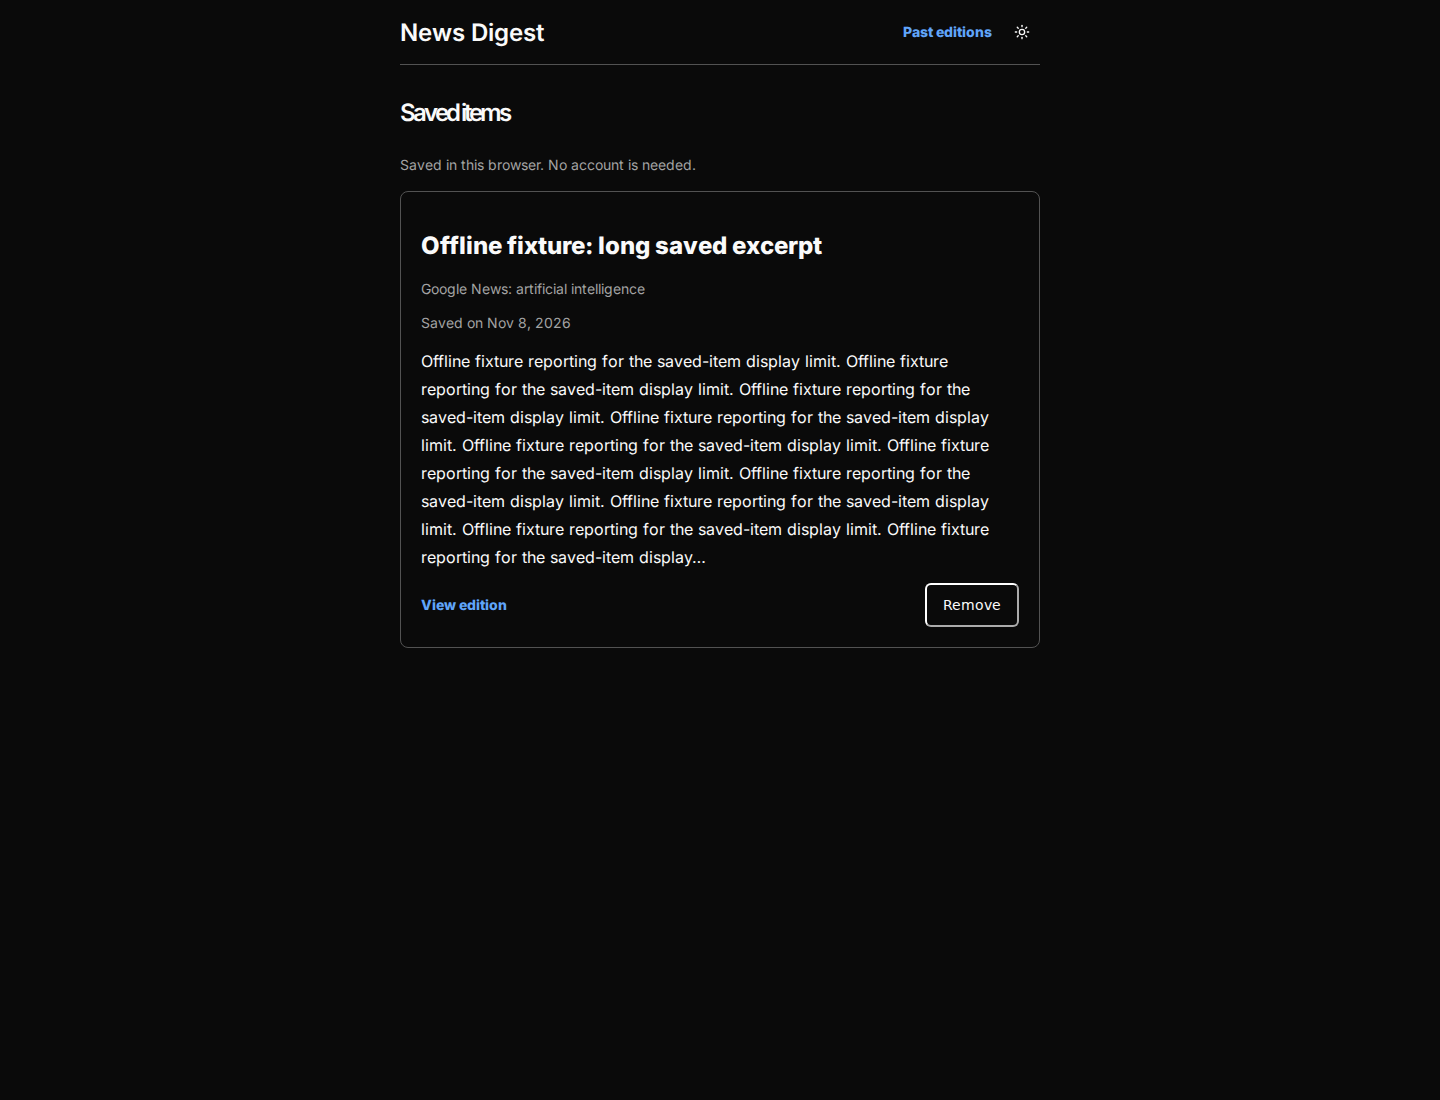
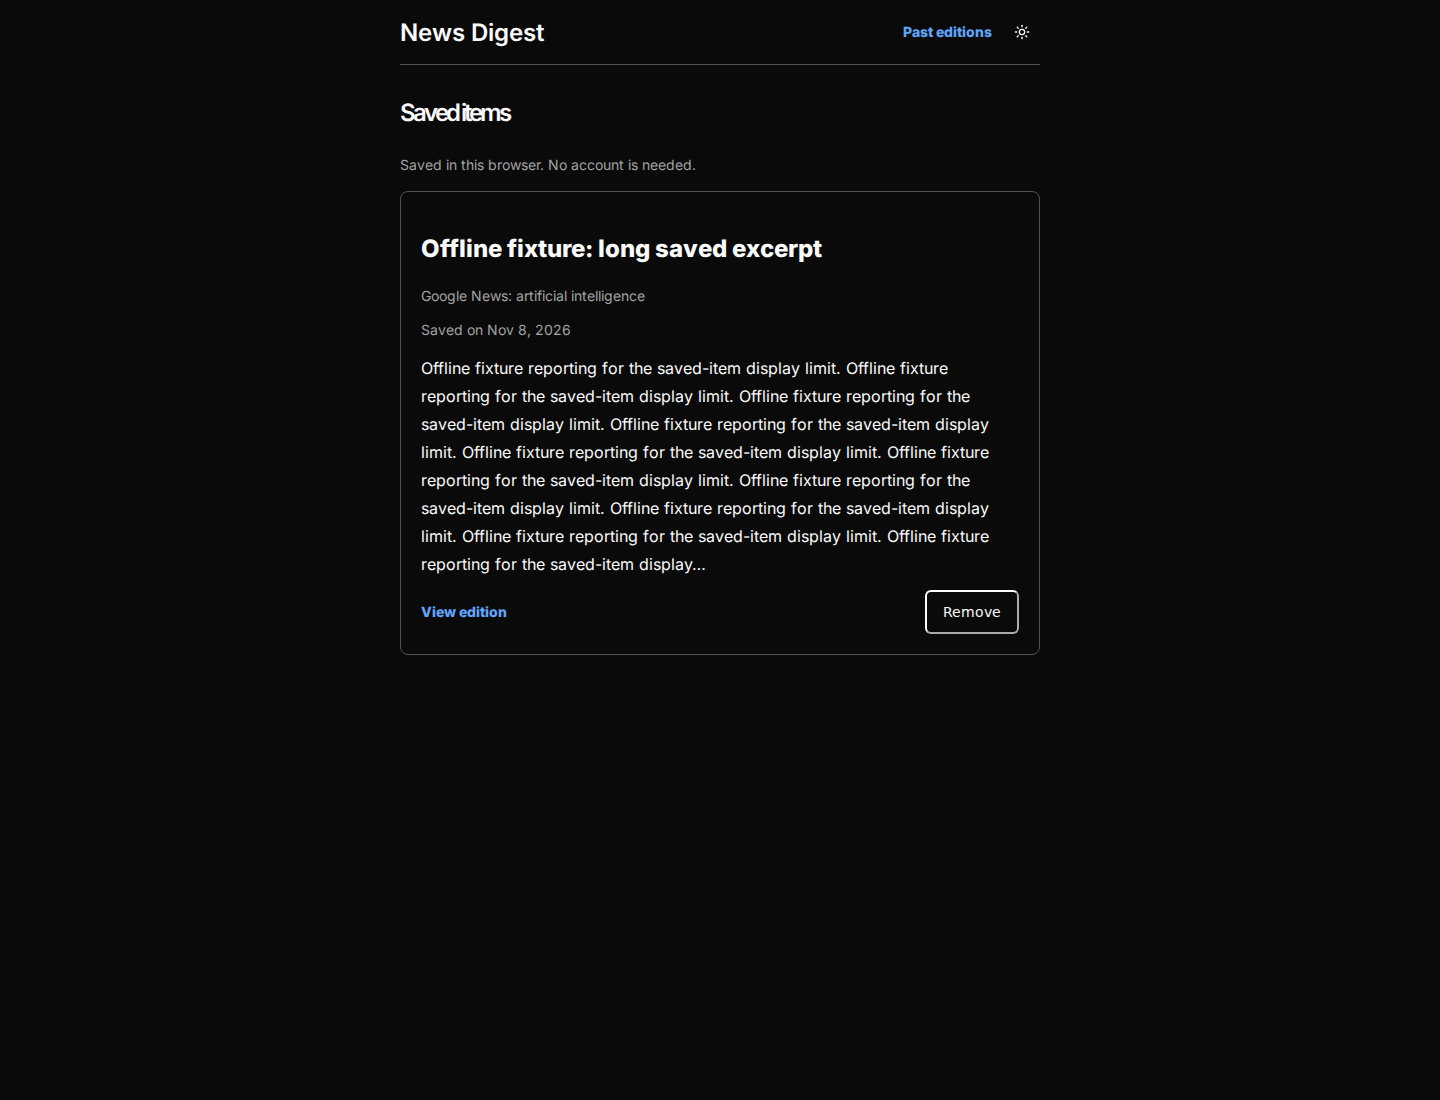
Make saved headlines easier to open and focus

Changed region(s): [[0.2812, 0.2164, 0.6875, 0.5873], [0.6562, 0.5255, 0.7188, 0.5873]]

diff --git a/scripts/smoke-reader-saved-excerpt.ts b/scripts/smoke-reader-saved-excerpt.ts
@@ -94,6 +94,33 @@ async function smoke() {
         await expect(page.locator('p.whitespace-pre-line')).toHaveText(
           story.summary,
         );
+        const headline = page.getByRole('link', {
+          name: story.title,
+          exact: true,
+        });
+        assert.equal(
+          await headline.evaluate((node) => getComputedStyle(node).display),
+          'flex',
+        );
+        const bounds = await headline.boundingBox();
+        assert.ok(bounds && bounds.width >= 44 && bounds.height >= 44);
+        assert.equal(await headline.getAttribute('href'), story.url);
+        await headline.focus();
+        await page.keyboard.press('Tab');
+        await page.keyboard.press('Shift+Tab');
+        assert.ok(
+          await headline.evaluate((node) => document.activeElement === node),
+        );
+        assert.equal(
+          await headline.evaluate(
+            (node) => getComputedStyle(node).outlineStyle,
+          ),
+          'solid',
+        );
+        await page.screenshot({
+          path: `docs/screenshots/ui/saved-headline-${device}-${theme}.png`,
+          fullPage: true,
+        });
         assert.deepEqual(errors, []);
         console.log(
           `${device}/${theme}: offline fixture excerpt shortened visibly and preserved on reload`,

diff --git a/apps/web/src/ReaderSaved.tsx b/apps/web/src/ReaderSaved.tsx
@@ -77,7 +77,12 @@ export function ReaderSaved() {
                 className="rounded-lg border border-[var(--border)] p-5 [overflow-wrap:anywhere]"
               >
                 <h2 className="font-sans text-lg font-semibold">
-                  <a href={copy.url} target="_blank" rel="noreferrer">
+                  <a
+                    href={copy.url}
+                    target="_blank"
+                    rel="noreferrer"
+                    className="flex min-h-11 min-w-11 items-center rounded-md hover:text-[var(--accent)] focus-visible:outline-2 focus-visible:outline-offset-2 focus-visible:outline-[var(--accent)]"
+                  >
                     {copy.title}
                   </a>
                 </h2>

diff --git a/PROGRESS.md b/PROGRESS.md
@@ -1,27 +1,3 @@
-## 2026-11-08: iteration 1308 — retain concurrent saves after reload
-
-- Clean main/no leftover work. Alerts/health pass; all 36 sources have no current error and digest-generation has zero failed jobs. Next scheduled publication remains 15:00 UTC; hourly metrics probe not due until ≥07:23 UTC.
-- Reproduced a phase-2 reader weakness: a concurrent stale tab write leaves the saved card visible in another tab, but storage has zero bookmarks, so reload loses it. Storage-event merges now persist the union, retain independent topic changes and settle without repeated cross-tab writes. A synchronous ref also keeps event handlers on the latest merged state.
-- New `pnpm exec tsx scripts/smoke-reader-preference-race.ts`: failed before fix (expected one stored bookmark, got zero); passes desktop/mobile light/dark after build. Uses actual published content, GET-only app traffic and blocked external requests. Four recovery screenshots added; desktop light/mobile dark inspected.
-- `pnpm format`, `pnpm lint:fix`, `pnpm build` and `git diff --check` pass. Existing `pnpm exec tsx scripts/smoke-reader-bookmarks.ts` and `pnpm exec tsx scripts/smoke-reader-preferences.ts` pass all four desktop/mobile light/dark variants, including removals, historical editions, blocked storage and cross-tab choices. Discarded unrelated screenshot rendering noise. `pnpm check` passes: 627 unit and 233 integration passes, four expected skips.
-- No provider calls/spend, backend/data-flow change or public-access change. VM stays private; phase 0/2 scheduled acceptance still waits for 15:00 UTC. Commit/push and four-service restart follow passing checks.
-
-## 2026-11-08: iteration 1309 — warn when saved preferences cannot be read
-
-- Clean main/no leftover work. Alerts/health pass; published reader serves four topics, 20 stories and 18 posts. Metrics probe remains due ≥07:23 UTC; scheduled acceptance waits for 15:00 UTC.
-- Fixed a phase-2 reader weakness: opening Saved items when browser storage reads are blocked silently showed an empty list. Initial read failure now displays the existing storage warning immediately; failed storage-event reads preserve current choices without attempting a repair write.
-- Extended `pnpm exec tsx scripts/smoke-reader-preferences.ts`: new direct Saved-page blocked-read assertion failed against deployed code, then passes after build in desktop/mobile light/dark. Four warning screenshots added; desktop light/mobile dark inspected. Discarded unrelated screenshot rendering noise.
-- `pnpm format`, `pnpm lint:fix`, `pnpm build`, `pnpm check` and `git diff --check` pass: 627 unit and 233 integration passes, four expected skips. `pnpm exec tsx scripts/smoke-reader-preference-race.ts` passes all four device/theme combinations; concurrent saves still survive reload and storage settles.
-- No provider calls/spend, backend/data-flow change or public-access change; VM remains private. Commit/push and four-service restart follow passing checks. Next: hourly metrics probe ≥07:23 UTC and scheduled phase-0/2 acceptance at 15:00 UTC.
-
-## 2026-11-08: iteration 1310 — connect archive and saved-item navigation
-
-- Clean main/no leftover work. Alerts/health pass, all 36 sources healthy, zero failed digest jobs; next scheduled publication 15:00 UTC. Metrics probe not due until ≥07:23 UTC.
-- Reader-visible weakness: Past editions and Saved items required a detour through the latest edition to reach each other. Added direct header links with labelled navigation, visible keyboard focus and 44px touch targets; readers can browse history and their saves directly.
-- `pnpm build` passes after correcting the archive link's required page parameter. `pnpm exec tsx scripts/smoke-reader-navigation.ts` passes desktop/mobile light/dark with actual published history, keyboard activation, no overflow/errors/writes; corrected smoke URL expectation to accept the valid page query. Eight screenshots added; desktop light archive/mobile dark saved inspected.
-- `pnpm format`, `pnpm lint:fix`, targeted smoke-script ESLint and `git diff --check` pass. No provider calls/spend, backend/data-flow change or public-access change; VM remains private. Scheduled phase-0/2 acceptance waits for 15:00 UTC. Commit/push and four-service restart follow passing verification.
-- Existing `pnpm exec tsx scripts/smoke-reader-archive.ts` passes all four viewport/theme variants after fixing its old assumption that page 3 must contain published entries; recovery now accepts an empty page. Updated four archive screenshots and discarded unrelated date-switcher screenshot noise. First full-check process ended with signal 15 before finishing; clean full-check rerun passes: 627 unit and 233 integration passes, four expected skips.
-
 ## 2026-11-08: iteration 1311 — recover saved destinations in hidden topics
 
 - Clean main/no leftover work. Alerts/health pass; 36 sources have no current error and no failed digest-generation jobs. Published reader has four topics, 20 stories and 18 posts. Scheduled acceptance waits for 15:00 UTC; metrics probe is not due until ≥07:23 UTC.
@@ -130,3 +106,12 @@
 - `pnpm build` and `pnpm exec tsx scripts/smoke-reader-coverage-labels.ts` pass: all 20 published story coverage controls, report destinations, touch targets, focus outlines and layout in desktop/mobile light/dark. Four screenshots refreshed; mobile dark inspected. GET-only traffic, external requests blocked, no provider spend.
 - Latest reader endpoint returns four topics, 20 stories and 18 posts; `/healthz` passes. No data-flow or public-access change; VM stays private.
 - `pnpm format`, `pnpm lint:fix`, `git diff --check` and full `pnpm check` pass: 629 unit and 233 integration passes, four expected skips. Normal four-service restart follows commit/push. Next: metrics probe ≥09:25 UTC and scheduled phase-0/phase-2 acceptance at 15:00 UTC.
+
+## 2026-11-08: iteration 1323 — accessible saved headlines
+
+- Clean main/no leftover work. Alerts, services, sources and jobs pass: no active alerts, 14 services/36 sources healthy; `/healthz` passes. Scheduled acceptance waits until 15:00 UTC; metrics next due ≥09:25 UTC.
+- Owner-visible weakness: saved-item headline links lacked the touch-target sizing and clear focus treatment used by adjacent controls. Headlines now occupy at least 44px height and show an explicit keyboard outline.
+- `pnpm build` and `pnpm exec tsx scripts/smoke-reader-saved-excerpt.ts` pass in desktop/mobile light/dark: published headline destination, flex layout, 44px target and keyboard focus verified; existing explicitly offline long-excerpt/reload checks retained. Four published-content screenshots saved; mobile dark inspected.
+- GET/HEAD-only browser traffic, external requests blocked; no provider spend. Existing thin Tech evidence and historical cutoff causes already have deployed changes awaiting publication; no editorial retuning.
+- Final `pnpm check` passes: 629 unit/233 integration passes, four expected skips. Initial combined run received signal 15; first standalone rerun caught newly archived progress formatting, corrected with Prettier before the successful full run. `pnpm format`, `pnpm lint:fix` and `git diff --check` pass; older progress archived to keep orientation small.
+- Reader latest endpoint retains four topics/20 stories/18 posts. Commit/push and normal four-service restart follow passing checks; VM stays private. Next: metrics probe ≥09:25 UTC; scheduled phase-0/phase-2 acceptance at 15:00 UTC.

diff --git a/docs/progress-archive/2026-11-08-iterations-1308-1310.md b/docs/progress-archive/2026-11-08-iterations-1308-1310.md
@@ -1,0 +1,23 @@
+## 2026-11-08: iteration 1308 — retain concurrent saves after reload
+
+- Clean main/no leftover work. Alerts/health pass; all 36 sources have no current error and digest-generation has zero failed jobs. Next scheduled publication remains 15:00 UTC; hourly metrics probe not due until ≥07:23 UTC.
+- Reproduced a phase-2 reader weakness: a concurrent stale tab write leaves the saved card visible in another tab, but storage has zero bookmarks, so reload loses it. Storage-event merges now persist the union, retain independent topic changes and settle without repeated cross-tab writes. A synchronous ref also keeps event handlers on the latest merged state.
+- New `pnpm exec tsx scripts/smoke-reader-preference-race.ts`: failed before fix (expected one stored bookmark, got zero); passes desktop/mobile light/dark after build. Uses actual published content, GET-only app traffic and blocked external requests. Four recovery screenshots added; desktop light/mobile dark inspected.
+- `pnpm format`, `pnpm lint:fix`, `pnpm build` and `git diff --check` pass. Existing `pnpm exec tsx scripts/smoke-reader-bookmarks.ts` and `pnpm exec tsx scripts/smoke-reader-preferences.ts` pass all four desktop/mobile light/dark variants, including removals, historical editions, blocked storage and cross-tab choices. Discarded unrelated screenshot rendering noise. `pnpm check` passes: 627 unit and 233 integration passes, four expected skips.
+- No provider calls/spend, backend/data-flow change or public-access change. VM stays private; phase 0/2 scheduled acceptance still waits for 15:00 UTC. Commit/push and four-service restart follow passing checks.
+
+## 2026-11-08: iteration 1309 — warn when saved preferences cannot be read
+
+- Clean main/no leftover work. Alerts/health pass; published reader serves four topics, 20 stories and 18 posts. Metrics probe remains due ≥07:23 UTC; scheduled acceptance waits for 15:00 UTC.
+- Fixed a phase-2 reader weakness: opening Saved items when browser storage reads are blocked silently showed an empty list. Initial read failure now displays the existing storage warning immediately; failed storage-event reads preserve current choices without attempting a repair write.
+- Extended `pnpm exec tsx scripts/smoke-reader-preferences.ts`: new direct Saved-page blocked-read assertion failed against deployed code, then passes after build in desktop/mobile light/dark. Four warning screenshots added; desktop light/mobile dark inspected. Discarded unrelated screenshot rendering noise.
+- `pnpm format`, `pnpm lint:fix`, `pnpm build`, `pnpm check` and `git diff --check` pass: 627 unit and 233 integration passes, four expected skips. `pnpm exec tsx scripts/smoke-reader-preference-race.ts` passes all four device/theme combinations; concurrent saves still survive reload and storage settles.
+- No provider calls/spend, backend/data-flow change or public-access change; VM remains private. Commit/push and four-service restart follow passing checks. Next: hourly metrics probe ≥07:23 UTC and scheduled phase-0/2 acceptance at 15:00 UTC.
+
+## 2026-11-08: iteration 1310 — connect archive and saved-item navigation
+
+- Clean main/no leftover work. Alerts/health pass, all 36 sources healthy, zero failed digest jobs; next scheduled publication 15:00 UTC. Metrics probe not due until ≥07:23 UTC.
+- Reader-visible weakness: Past editions and Saved items required a detour through the latest edition to reach each other. Added direct header links with labelled navigation, visible keyboard focus and 44px touch targets; readers can browse history and their saves directly.
+- `pnpm build` passes after correcting the archive link's required page parameter. `pnpm exec tsx scripts/smoke-reader-navigation.ts` passes desktop/mobile light/dark with actual published history, keyboard activation, no overflow/errors/writes; corrected smoke URL expectation to accept the valid page query. Eight screenshots added; desktop light archive/mobile dark saved inspected.
+- `pnpm format`, `pnpm lint:fix`, targeted smoke-script ESLint and `git diff --check` pass. No provider calls/spend, backend/data-flow change or public-access change; VM remains private. Scheduled phase-0/2 acceptance waits for 15:00 UTC. Commit/push and four-service restart follow passing verification.
+- Existing `pnpm exec tsx scripts/smoke-reader-archive.ts` passes all four viewport/theme variants after fixing its old assumption that page 3 must contain published entries; recovery now accepts an empty page. Updated four archive screenshots and discarded unrelated date-switcher screenshot noise. First full-check process ended with signal 15 before finishing; clean full-check rerun passes: 627 unit and 233 integration passes, four expected skips.

diff --git a/TASKS.md b/TASKS.md
@@ -34,7 +34,7 @@ Fix failures first. STEERING overrides older notes. [Prior detail through 846](d
 
 ## Latest verified step
 
-- [x] Iteration 1322: Expanded coverage report links have 44px minimum touch targets and visible keyboard focus; published report destinations and mobile/desktop layout verified in light/dark.
+- [x] Iteration 1323: Saved-item headline links have 44px minimum touch targets and visible keyboard focus; published destinations and desktop/mobile light/dark rendering verified.
 
 Earlier completed markers: [through 1042](docs/progress-archive/2026-11-06-task-done-1043.md).
 
